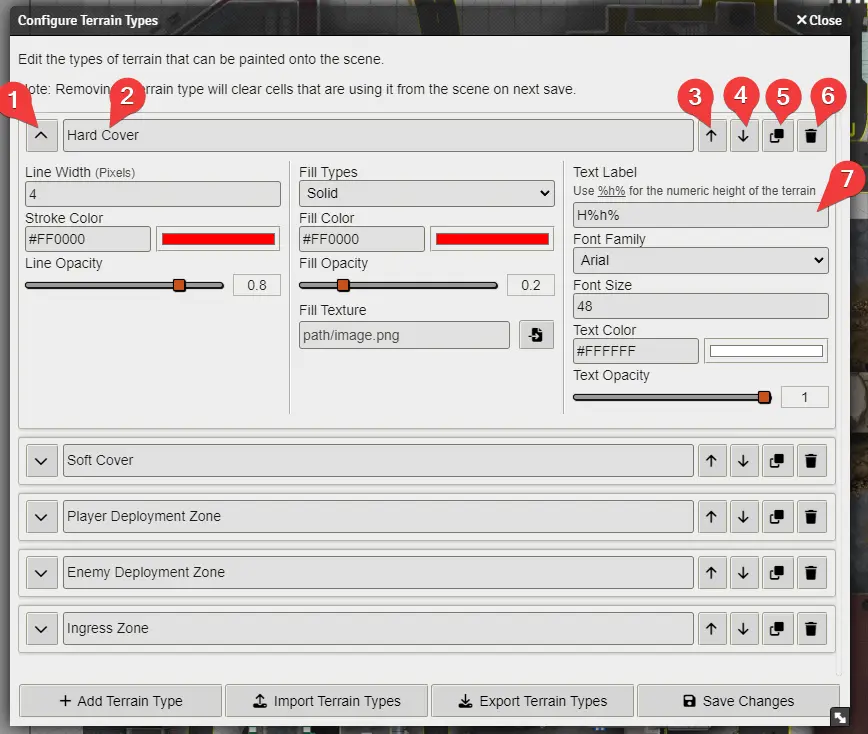
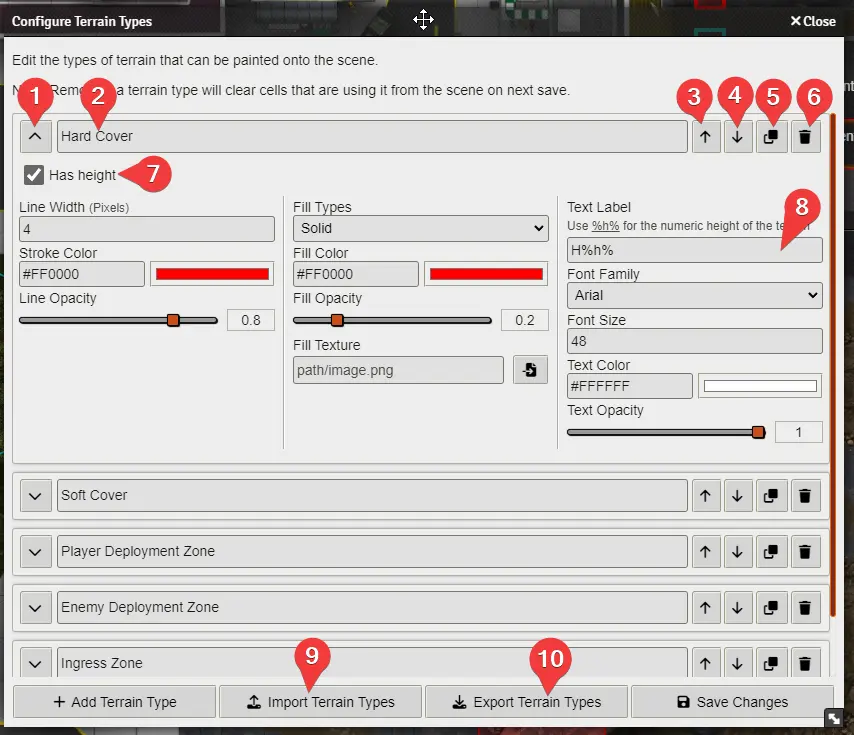
Update readme to include new 'Has height' config option.

Changed region(s): [[0.0, 0.0, 1.0, 1.0], [0.5785, 0.0, 0.8525, 0.0599]]

diff --git a/readme.md b/readme.md
@@ -28,15 +28,17 @@ Once at least one type of terrain has been configured, you can then use the tool
 
 To add a new terrain type simply:
 1. Click the "Add Terrain Type" button in the bottom left.
-2. Give it a name (labelled 2 in the above image). Note that this is what shows in the palette window, NOT what is shown on the scene.
-3. Configure the style of the area that will be painted on the scene - these settings should be familiar if you have used the default Foundry drawing tool before.
-	- One thing to note though is that the '_Text Label_' (number 7 in the above image), which is what the area will be labelled as, allows a `%h%` placeholder to be used. This will be replaced with the height value of the painted terrain. For example, if you create a type with a label of `H%h%`, when painted on the scene at height 2, it will have a label of `H2`. If painted at height 4, it will have a label of `H4`, etc.
-4. Click '_Save Changes_' in the bottom right, and your new terrain type will show up in the palette.
+2. Give it a name (labelled 2 in the above image). Note that this is what shows in the palette window, NOT what is shown to players on the scene canvas.
+3. Select whether or not the terrain type should have a height.
+	- This is the default, however for some types (e.g. objective/control zones) it may not make sense to give them a height. This setting will disable the height option in the palette, and prevent you from accidentally having areas with different heights. Note that disabling this will NOT affect already-painted grid cells.
+4. Configure the style of the area that will be painted on the scene - these settings should be familiar if you have used the default Foundry drawing tool before.
+	- One thing to note though is that the '_Text Label_' (number 8 in the above image), which is what the area will be labelled as, allows a `%h%` placeholder to be used. This will be replaced with the height value of the painted terrain. For example, if you create a type with a label of `H%h%`, when painted on the scene at height 2, it will have a label of `H2`. If painted at height 4, it will have a label of `H4`, etc.
+5. Click '_Save Changes_' in the bottom right, and your new terrain type will show up in the palette.
 
 There are some other useful buttons:
 - Button 1 expands/collapses the terrain type configuration. Just helps keep the menu tidy!
 - Buttons 3 and 4 on the above image are to move the terrain types up and down. This only affects their order in the palette, but you can shift your most-used terrain types to the top if you wish.
 - Button 5 allows you to duplicate an existing terrain type, copying all the configuration.
 - Button 6 is to delete the terrain type.
-- '_Import Terrain Types_' button allows you to paste JSON in to import some terrain types that have been exported previously.
-- '_Export Terrain Types_' button will give you a JSON that you can share with other people, or copy to other worlds and will copy all your terrain types.
+- '_Import Terrain Types_' (button 9) allows you to paste JSON in to import some terrain types that have been exported previously.
+- '_Export Terrain Types_' (button 10) will give you a JSON that you can share with other people, or copy to other worlds and will copy all your terrain types.
